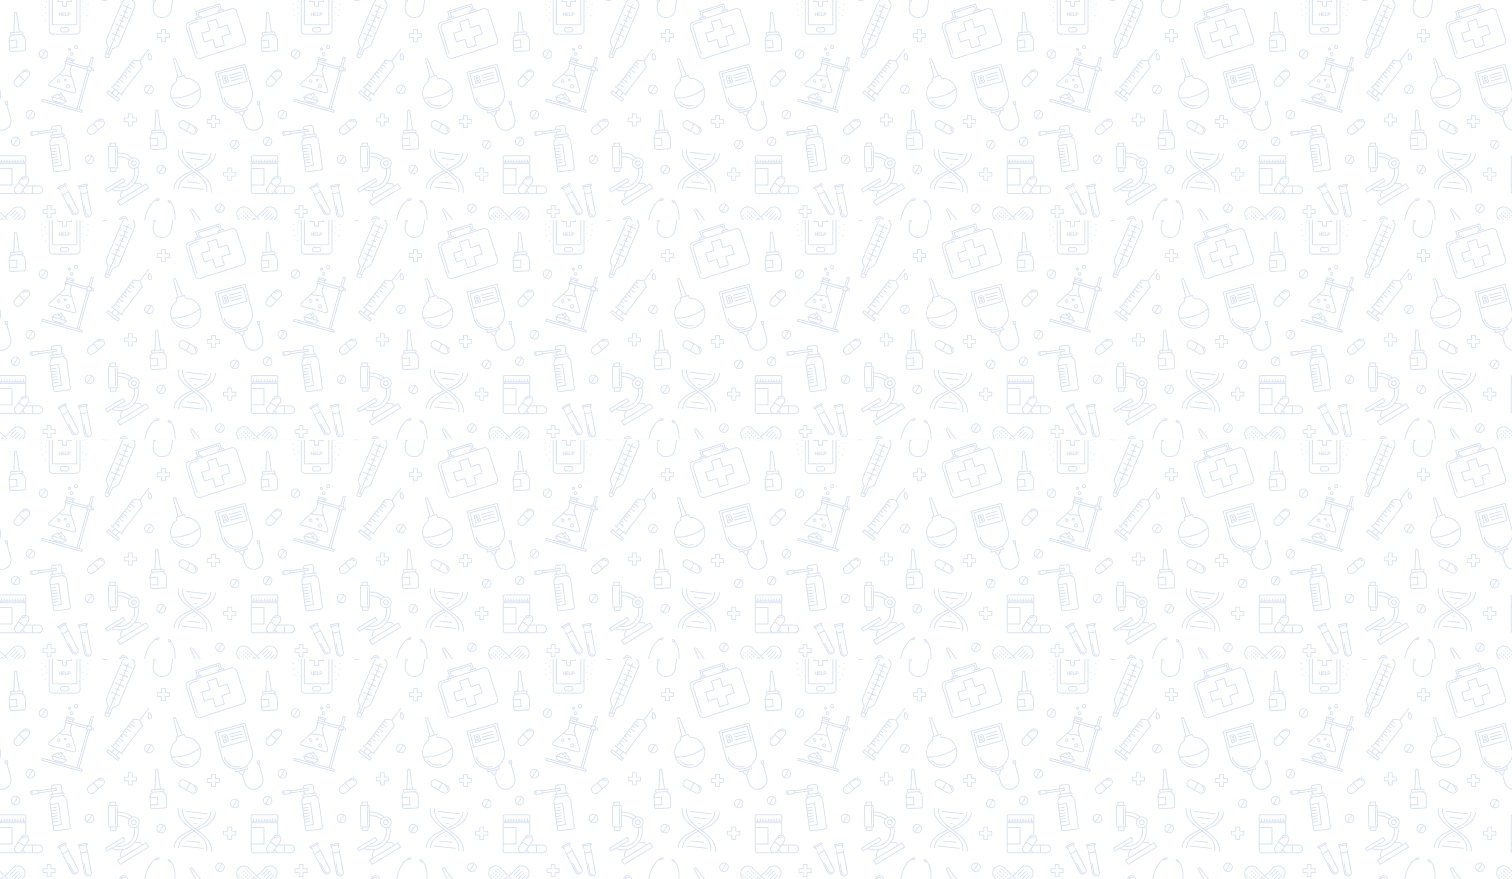
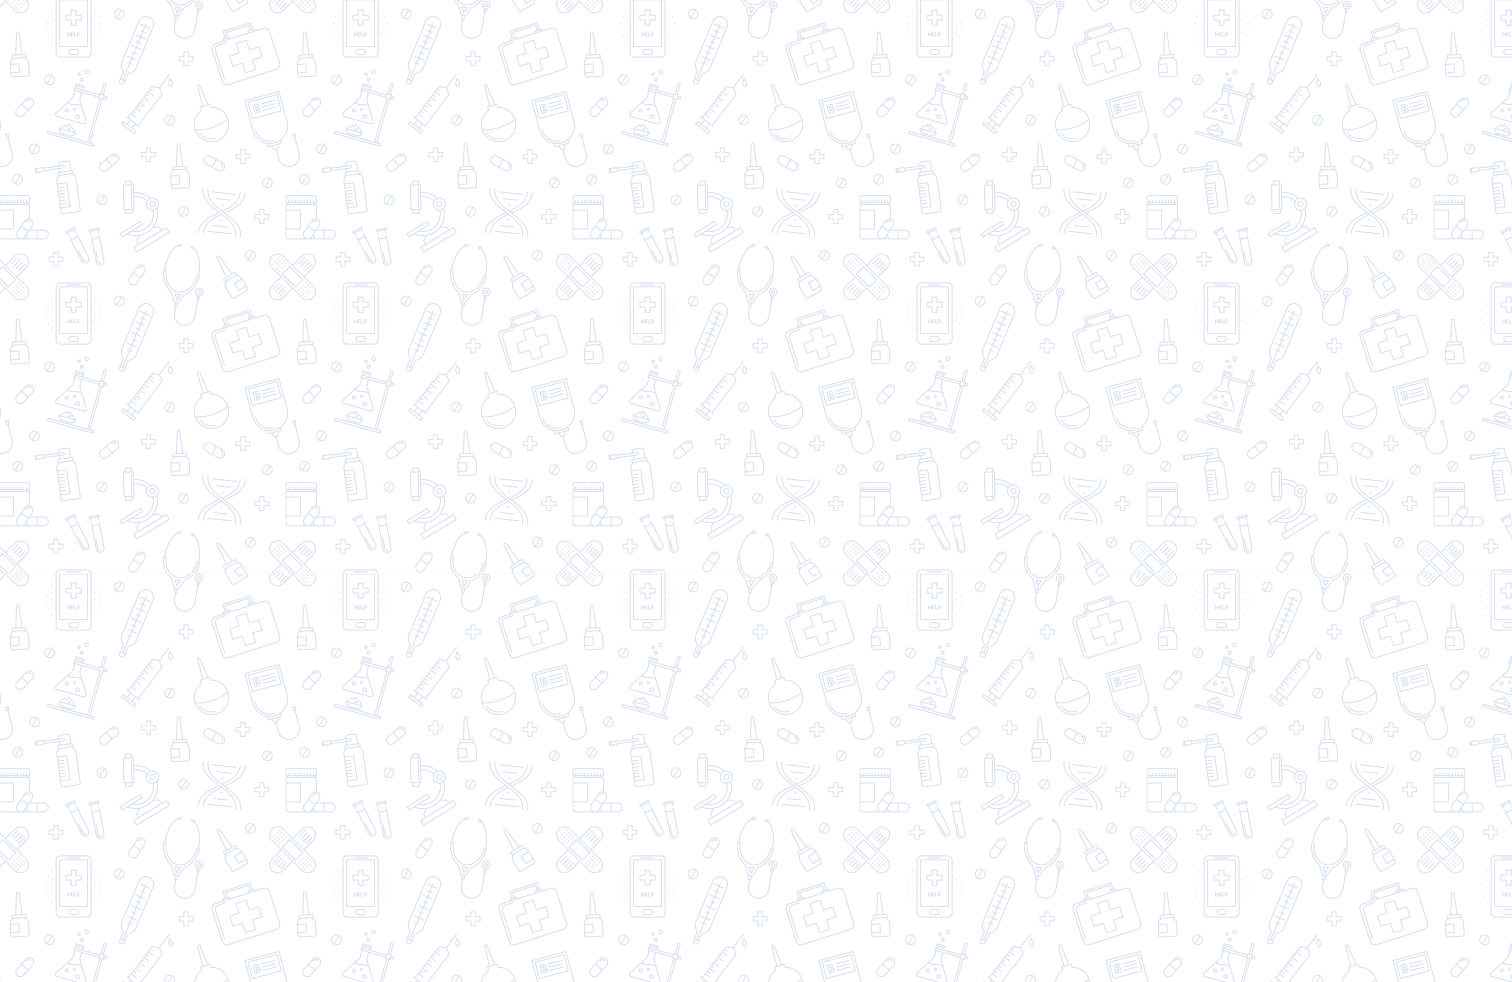
feat: Signup UI

diff --git a/src/styles/SignUp.css b/src/styles/SignUp.css
@@ -1,0 +1,55 @@
+.Form {
+  display: flex;
+  flex-direction: column;
+  justify-content: center;
+  align-items: stretch;
+  margin: 10% 35% 10% 35%;
+  padding: 63px 84px;
+  box-shadow: 0 4px 4px 0 rgba(0, 0, 0, 0.25);
+  background-color: var(--light-grey);
+}
+
+.Button {
+  width: 150px;
+  height: 50px;
+  display: flex;
+  flex-direction: row;
+  justify-content: center;
+  align-items: center;
+  gap: 10px;
+  color: white;
+  font-family: Lato;
+  font-size: 22px;
+  font-weight: bold;
+  font-stretch: normal;
+  font-style: normal;
+  line-height: normal;
+  letter-spacing: normal;
+  text-align: left;
+  color: var(--white);
+  padding: 12px 40px;
+  box-shadow: 0 4px 4px 0 rgba(0, 0, 0, 0.25);
+  background-color: var(--purple);
+  margin-top: 50px;
+}
+
+.Button:hover {
+  cursor: pointer;
+  opacity: 0.8;
+}
+
+.InputField {
+  height: 26px;
+}
+
+.Label {
+  font-family: Lato;
+  font-size: 22px;
+  font-weight: bold;
+  font-stretch: normal;
+  font-style: normal;
+  line-height: normal;
+  letter-spacing: normal;
+  text-align: left;
+  color: var(--purple);
+}

diff --git a/src/index.css b/src/index.css
@@ -1,24 +1,32 @@
+html, body {
+  height: 100% !important;
+  width: 100% !important;
+  margin: 0 !important;
+  padding: 0 !important;
+}
+
 body {
   margin: 0;
-  flex: 1;
+  height: 100%;
+  width: 100%;
   display: flex;
   flex-direction: column;
-  font-family: -apple-system, BlinkMacSystemFont, 'Segoe UI', 'Roboto', 'Oxygen',
-    'Ubuntu', 'Cantarell', 'Fira Sans', 'Droid Sans', 'Helvetica Neue',
+  flex: 1;
+  font-family: -apple-system, BlinkMacSystemFont, "Segoe UI", "Roboto", "Oxygen",
+    "Ubuntu", "Cantarell", "Fira Sans", "Droid Sans", "Helvetica Neue",
     sans-serif;
   -webkit-font-smoothing: antialiased;
   -moz-osx-font-smoothing: grayscale;
-  --grey: #f5f5f5;
+  --light-grey: #f5f5f5;
   --white: #fff;
   --purple: #5009b5;
   --accent-blue: #02bbba;
   --blue: #0077f8;
   --deep-purple: #2b1b49;
   --grey: #8e8b94;
-
 }
 
 code {
-  font-family: source-code-pro, Menlo, Monaco, Consolas, 'Courier New',
+  font-family: source-code-pro, Menlo, Monaco, Consolas, "Courier New",
     monospace;
 }

diff --git a/src/components/SignUp.js b/src/components/SignUp.js
@@ -1,19 +1,23 @@
 import React from "react";
 import Footer from "./Footer";
+import "../styles/SignUp.css";
 
 const Form = () => {
-    return (
-        <div>
-            <p>ID</p>
-            <input />
-            <p>User Type</p>
-            <input />
-            <p>Password</p>
-            <input />
-            <button>Submit</button>
-        </div>
-    )
-}
+  return (
+    <div className="Form">
+      <p className="Label">ID</p>
+      <input className="InputField" />
+      <p className="Label">User Type</p>
+      <select className="InputField">
+        <option value="patient">Patient</option>
+        <option value="doctor">Doctor</option>
+      </select>
+      <p className="Label">Password</p>
+      <input className="InputField" />
+      <button type="button" className="Button">Submit</button>
+    </div>
+  );
+};
 
 function SignUp() {
   return (

diff --git a/src/components/Footer.js b/src/components/Footer.js
@@ -1,13 +1,13 @@
 import React from 'react'
 import Images from '../assets/images'
-import '../styles/FooterStyles.css'
+import '../styles/Footer.css'
 
 function Footer() {
   return (
     <div className='Footer'>
-        <img src={Images.carelonLogo} />
+        <img alt='carelon logo' src={Images.carelonLogo} />
         <p className='HackGT'>Made at HackGT with ♥</p>
-        <img src={Images.hexLabs} />
+        <img alt='hexLabs logo' src={Images.hexLabs} />
     </div>
   )
 }

diff --git a/src/styles/Footer.css b/src/styles/Footer.css
@@ -1,11 +1,12 @@
+
 .Footer {
+  bottom: 0;
   display: flex;
   flex: 1;
   justify-content: space-between;
   align-items: center;
   background-color: var(--deep-purple);
-  height: 103px;
-  width: auto;
+  min-height: 103px;
   padding: 14px 37px 23px 36px;
 }
 

diff --git a/src/components/Body.js b/src/components/Body.js
@@ -1,9 +1,10 @@
 import React from 'react'
 import SignUp from './SignUp'
+import '../styles/Body.css'
 
 function Body() {
   return (
-    <div className='body'>
+    <div className='Body'>
         <SignUp />
     </div>
   )

diff --git a/src/components/Header.js b/src/components/Header.js
@@ -1,6 +1,6 @@
 import React from "react";
 import Images from "../assets/images";
-import "../styles/HeaderStyles.css";
+import "../styles/Header.css";
 
 function Header() {
   return (

diff --git a/src/styles/Body.css b/src/styles/Body.css
@@ -1,0 +1,7 @@
+.Body {
+    background: url('../assets/images/background.png');
+    flex: 1;
+    display: flex;
+    flex-direction: column;
+    height: 100%;
+}

diff --git a/src/App.css b/src/App.css
@@ -1,5 +1,3 @@
 .App {
-  flex: 1;
-  display: flex;
-  flex-direction: column;
+  height: calc(100% - 103px)
 }
